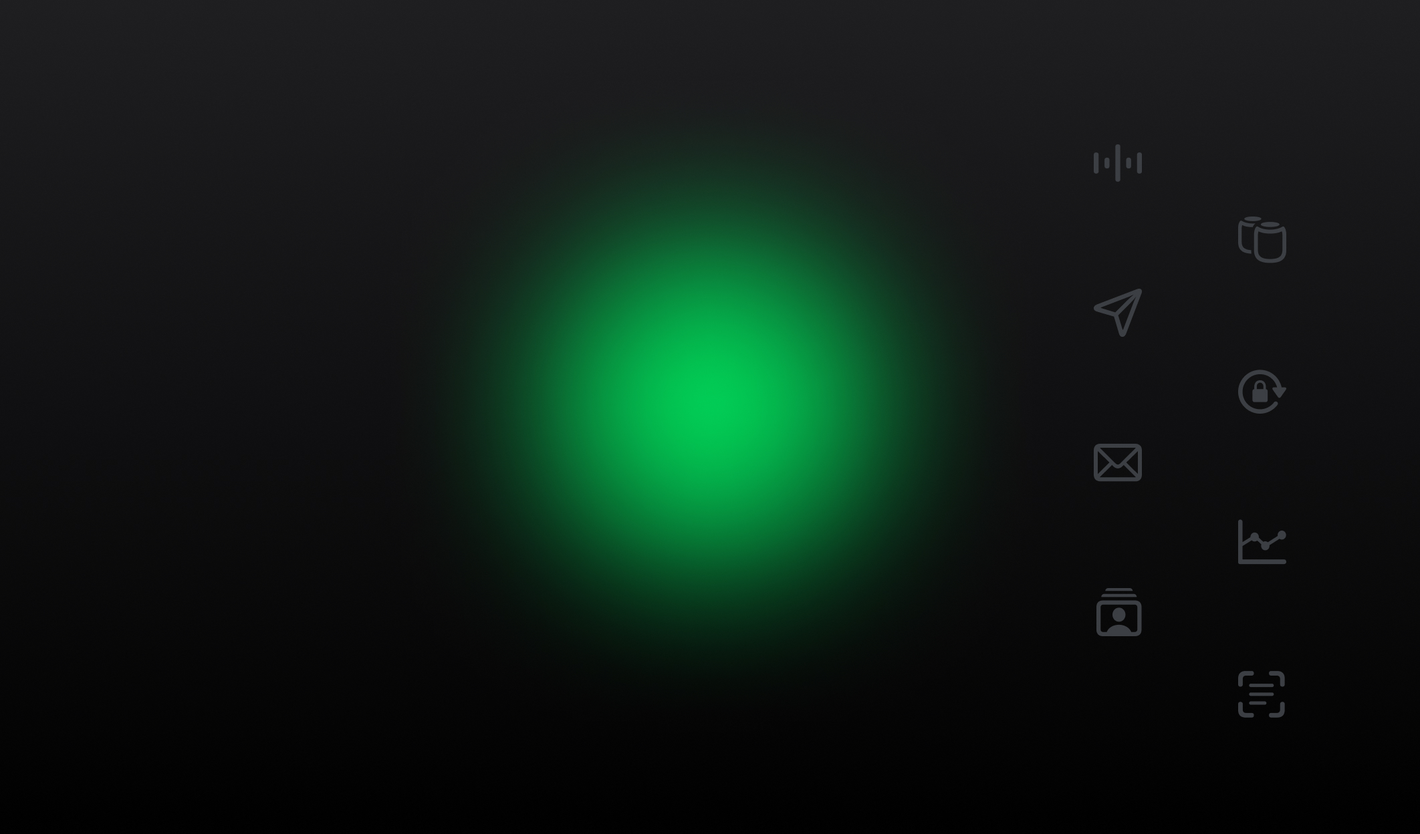
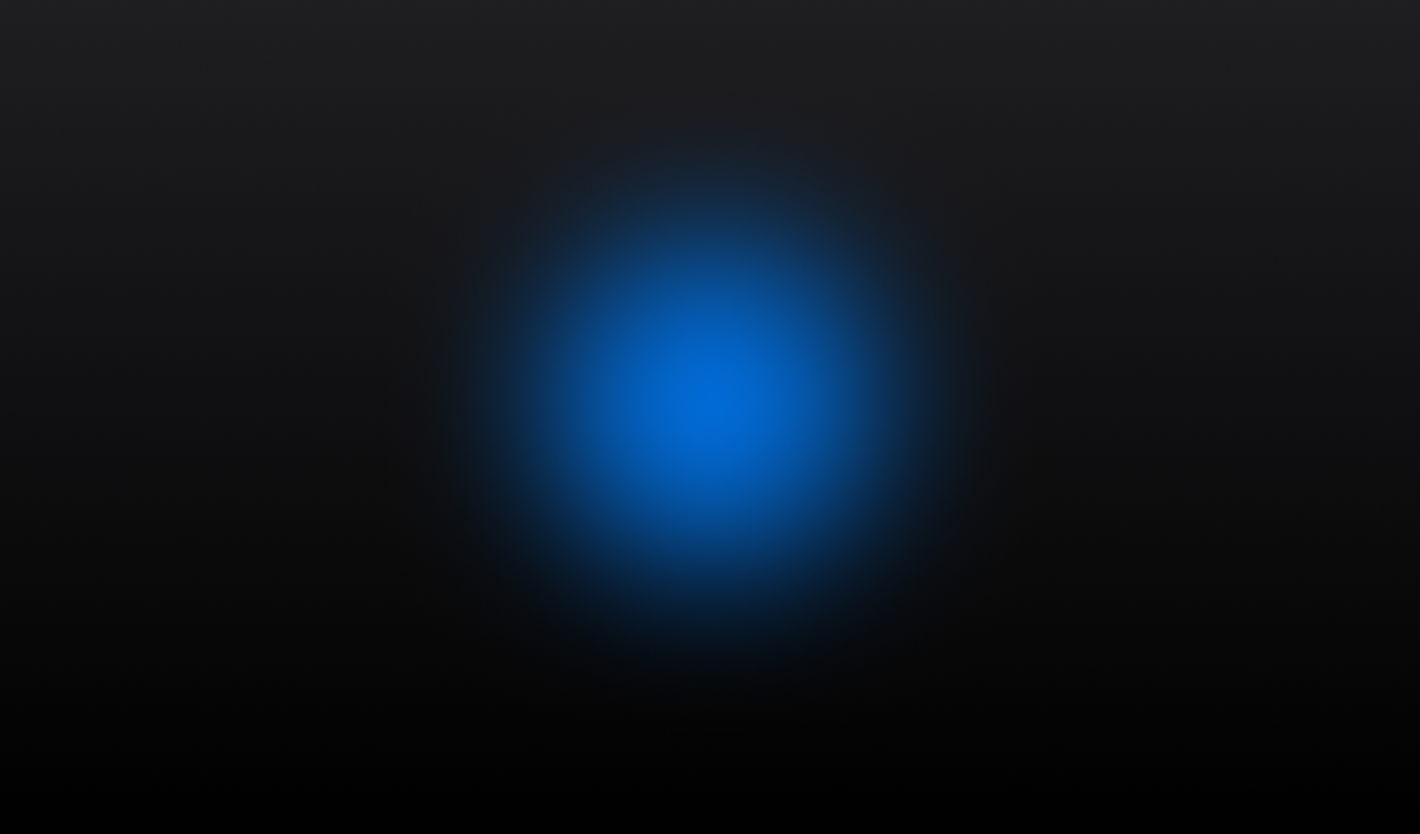
:lipstick: Change the app theme to use blue as primary color, and only allow light theme

diff --git a/src/lib/assets/icons/Logo.tsx b/src/lib/assets/icons/Logo.tsx
@@ -1,6 +1,6 @@
 import { useTheme } from 'styled-components';
 
-import { VectorProps } from '../../interfaces/theme.interfaces';
+import { VectorProps } from 'lib/interfaces/theme.interfaces';
 
 export default function Logo({
   height = 48,
@@ -15,52 +15,24 @@ export default function Logo({
 
   switch (variant) {
     case 'logo':
-      viewBox = '0 0 775 128';
+      viewBox = '0 0 682 88';
       children = (
         <>
-          <g filter="url(#filter0_f_913_2)">
-            <path
-              d="M90.4474 108H64.6314C56.0851 108 49.1339 101.472 49.1339 93.4514C49.1339 90.7399 49.9192 88.1483 51.3842 85.8955C48.5338 85.3048 45.9214 83.9617 43.8153 81.9784C37.7806 76.3101 37.7759 67.0789 43.8153 61.4073L56.7907 49.0972L35.4975 49.0928C26.9524 49.0928 20 42.5654 20 34.5442C20 26.523 26.9536 20 35.4987 20H61.3193C69.8657 20 76.8169 26.5241 76.8169 34.5453C76.8169 37.2601 76.0316 39.855 74.5619 42.1078C77.4123 42.7018 80.0258 44.0416 82.1355 46.0216C85.062 48.7683 86.6712 52.4203 86.6712 56.3099C86.6712 60.1907 85.062 63.8482 82.1319 66.5938L69.1554 78.9072H90.4474C98.9937 78.9072 105.95 85.4313 105.95 93.4525C105.95 101.472 98.9937 108 90.4474 108ZM61.4307 86.2398L59.2132 88.3419C57.7482 89.7169 56.9465 91.5286 56.9465 93.4547C56.9465 97.429 60.3911 100.666 64.6314 100.666H90.4474C94.6866 100.666 98.1358 97.4301 98.1358 93.4514C98.1358 89.4727 94.6877 86.2387 90.4474 86.2387L61.4307 86.2398ZM67.7795 49.0972L49.3554 66.5784C46.3492 69.4065 46.3492 73.9825 49.3472 76.7974C50.7888 78.1581 52.7121 78.9072 54.7654 78.9072H58.1678L76.5918 61.4216C78.0604 60.0466 78.8585 58.2349 78.8585 56.3088C78.8585 54.3827 78.0604 52.5677 76.6071 51.2026C75.162 49.8452 73.234 49.0972 71.1783 49.0972H67.7795ZM35.4987 27.3337C31.2642 27.3337 27.815 30.5699 27.815 34.5453C27.815 38.5273 31.263 41.7613 35.4987 41.7613L64.5178 41.7646L66.7387 39.6592C68.2073 38.2842 69.0054 36.4725 69.0054 34.5464C69.0054 30.5721 65.5562 27.3348 61.3205 27.3348L35.4987 27.3337Z"
-              fill={theme.palette.primary.main}
-              fillOpacity="0.2"
-            />
-          </g>
           <path
-            d="M90.4474 108H64.6314C56.0851 108 49.1339 101.471 49.1339 93.4514C49.1339 90.7399 49.9192 88.1483 51.3842 85.8955C48.5338 85.3048 45.9214 83.9617 43.8153 81.9784C37.7806 76.3101 37.7759 67.0789 43.8153 61.4073L56.7907 49.0972L35.4975 49.0928C26.9524 49.0928 20 42.5654 20 34.5442C20 26.523 26.9536 20 35.4987 20H61.3193C69.8657 20 76.8169 26.5241 76.8169 34.5453C76.8169 37.2601 76.0316 39.855 74.5619 42.1078C77.4122 42.7018 80.0258 44.0416 82.1355 46.0216C85.062 48.7683 86.6712 52.4203 86.6712 56.3099C86.6712 60.1907 85.062 63.8482 82.1319 66.5938L69.1554 78.9072H90.4474C98.9937 78.9072 105.95 85.4313 105.95 93.4525C105.95 101.471 98.9937 108 90.4474 108ZM61.4307 86.2398L59.2132 88.3419C57.7482 89.7169 56.9465 91.5286 56.9465 93.4547C56.9465 97.429 60.3911 100.666 64.6314 100.666H90.4474C94.6866 100.666 98.1358 97.4301 98.1358 93.4514C98.1358 89.4727 94.6877 86.2387 90.4474 86.2387L61.4307 86.2398ZM67.7795 49.0972L49.3554 66.5784C46.3492 69.4065 46.3492 73.9825 49.3472 76.7974C50.7888 78.1581 52.7121 78.9072 54.7654 78.9072H58.1678L76.5918 61.4216C78.0604 60.0466 78.8585 58.2349 78.8585 56.3088C78.8585 54.3827 78.0604 52.5677 76.6071 51.2026C75.162 49.8452 73.234 49.0972 71.1783 49.0972H67.7795ZM35.4987 27.3337C31.2642 27.3337 27.815 30.5699 27.815 34.5453C27.815 38.5273 31.263 41.7613 35.4987 41.7613L64.5178 41.7646L66.7387 39.6592C68.2072 38.2842 69.0054 36.4725 69.0054 34.5464C69.0054 30.5721 65.5562 27.3348 61.3205 27.3348L35.4987 27.3337Z"
+            d="M75.4474 88H49.6314C41.0851 88 34.1339 81.4715 34.1339 73.4514C34.1339 70.7399 34.9192 68.1483 36.3842 65.8955C33.5338 65.3048 30.9214 63.9617 28.8153 61.9784C22.7806 56.3101 22.7759 47.0789 28.8153 41.4073L41.7907 29.0972L20.4975 29.0928C11.9524 29.0928 5 22.5654 5 14.5442C5 6.523 11.9536 0 20.4987 0H46.3193C54.8657 0 61.8169 6.5241 61.8169 14.5453C61.8169 17.2601 61.0316 19.855 59.5619 22.1078C62.4122 22.7018 65.0258 24.0416 67.1355 26.0216C70.062 28.7683 71.6712 32.4203 71.6712 36.3099C71.6712 40.1907 70.062 43.8482 67.1319 46.5938L54.1554 58.9072H75.4474C83.9937 58.9072 90.9496 65.4313 90.9496 73.4525C90.9496 81.4715 83.9937 88 75.4474 88ZM46.4307 66.2398L44.2132 68.3419C42.7482 69.7169 41.9465 71.5286 41.9465 73.4547C41.9465 77.429 45.3911 80.6663 49.6314 80.6663H75.4474C79.6866 80.6663 83.1358 77.4301 83.1358 73.4514C83.1358 69.4727 79.6877 66.2387 75.4474 66.2387L46.4307 66.2398ZM52.7795 29.0972L34.3554 46.5784C31.3492 49.4065 31.3492 53.9825 34.3472 56.7974C35.7888 58.1581 37.7121 58.9072 39.7654 58.9072H43.1678L61.5918 41.4216C63.0604 40.0466 63.8585 38.2349 63.8585 36.3088C63.8585 34.3827 63.0604 32.5677 61.6071 31.2026C60.162 29.8452 58.234 29.0972 56.1783 29.0972H52.7795ZM20.4987 7.3337C16.2642 7.3337 12.815 10.5699 12.815 14.5453C12.815 18.5273 16.263 21.7613 20.4987 21.7613L49.5178 21.7646L51.7387 19.6592C53.2072 18.2842 54.0054 16.4725 54.0054 14.5464C54.0054 10.5721 50.5562 7.3348 46.3205 7.3348L20.4987 7.3337Z"
             fill="url(#paint0_linear_913_2)"
           />
           <path
-            d="M175.648 107.965C167.406 107.965 160.258 106.207 154.203 102.691C148.188 99.1758 143.539 94.1562 140.258 87.6328C137.016 81.0703 135.395 73.2578 135.395 64.1953V64.1367C135.395 55.0352 137.035 47.2422 140.316 40.7578C143.598 34.2344 148.246 29.2344 154.262 25.7578C160.277 22.2422 167.406 20.4844 175.648 20.4844C182.484 20.4844 188.578 21.8125 193.93 24.4688C199.281 27.125 203.578 30.7773 206.82 35.4258C210.062 40.0352 211.957 45.3477 212.504 51.3633L212.562 51.8906H195.336L195.102 50.8945C194.438 47.7695 193.246 45.0547 191.527 42.75C189.809 40.4453 187.602 38.668 184.906 37.418C182.25 36.1289 179.164 35.4844 175.648 35.4844C171.117 35.4844 167.191 36.6367 163.871 38.9414C160.551 41.2461 157.973 44.5469 156.137 48.8438C154.34 53.1016 153.441 58.1797 153.441 64.0781V64.1367C153.441 70.0742 154.34 75.2109 156.137 79.5469C157.973 83.8438 160.551 87.1641 163.871 89.5078C167.23 91.8125 171.156 92.9648 175.648 92.9648C179.047 92.9648 182.074 92.3398 184.73 91.0898C187.426 89.8398 189.672 88.043 191.469 85.6992C193.266 83.3164 194.535 80.4453 195.277 77.0859L195.395 76.5H212.621L212.562 77.1445C212.016 83.1211 210.102 88.4336 206.82 93.082C203.578 97.7305 199.281 101.383 193.93 104.039C188.578 106.656 182.484 107.965 175.648 107.965ZM222.523 106.5V21.9492H239.633V106.5H222.523ZM251.527 106.5V43.6875H268.637V106.5H251.527ZM260.082 35.6016C257.504 35.6016 255.336 34.7227 253.578 32.9648C251.82 31.207 250.941 29.1172 250.941 26.6953C250.941 24.2344 251.82 22.1445 253.578 20.4258C255.336 18.668 257.504 17.7891 260.082 17.7891C262.66 17.7891 264.828 18.668 266.586 20.4258C268.344 22.1445 269.223 24.2344 269.223 26.6953C269.223 29.1172 268.344 31.207 266.586 32.9648C264.828 34.7227 262.66 35.6016 260.082 35.6016ZM280.121 106.5V43.6875H297.23V54.2344H297.582C298.871 50.6406 301.059 47.7695 304.145 45.6211C307.27 43.4727 310.941 42.3984 315.16 42.3984C318.09 42.3984 320.727 42.9062 323.07 43.9219C325.414 44.9375 327.387 46.4023 328.988 48.3164C330.629 50.2305 331.781 52.5742 332.445 55.3477H332.797C333.734 52.6914 335.141 50.4062 337.016 48.4922C338.93 46.5391 341.176 45.0352 343.754 43.9805C346.371 42.9258 349.223 42.3984 352.309 42.3984C356.41 42.3984 360.004 43.2773 363.09 45.0352C366.176 46.793 368.578 49.2539 370.297 52.418C372.016 55.582 372.875 59.293 372.875 63.5508V106.5H355.766V67.8281C355.766 65.4062 355.355 63.3555 354.535 61.6758C353.754 59.9961 352.602 58.7266 351.078 57.8672C349.594 57.0078 347.738 56.5781 345.512 56.5781C343.363 56.5781 341.469 57.0664 339.828 58.043C338.227 59.0195 336.977 60.3867 336.078 62.1445C335.18 63.9023 334.73 65.9531 334.73 68.2969V106.5H318.266V67.3008C318.266 65.0352 317.855 63.1016 317.035 61.5C316.215 59.8984 315.043 58.6875 313.52 57.8672C312.035 57.0078 310.238 56.5781 308.129 56.5781C305.98 56.5781 304.086 57.0859 302.445 58.1016C300.805 59.1172 299.516 60.5234 298.578 62.3203C297.68 64.1172 297.23 66.207 297.23 68.5898V106.5H280.121ZM412.309 107.789C405.902 107.789 400.395 106.48 395.785 103.863C391.176 101.207 387.621 97.4375 385.121 92.5547C382.66 87.6719 381.43 81.8906 381.43 75.2109V75.1523C381.43 68.4727 382.66 62.6914 385.121 57.8086C387.621 52.8867 391.117 49.0977 395.609 46.4414C400.141 43.7461 405.473 42.3984 411.605 42.3984C417.738 42.3984 423.031 43.707 427.484 46.3242C431.977 48.9023 435.434 52.5547 437.855 57.2812C440.316 62.0078 441.547 67.5352 441.547 73.8633V79.1367H389.809V68.3555H433.461L425.316 78.4336V71.8711C425.316 68.1992 424.75 65.1328 423.617 62.6719C422.484 60.1719 420.902 58.2969 418.871 57.0469C416.879 55.7969 414.555 55.1719 411.898 55.1719C409.242 55.1719 406.879 55.8164 404.809 57.1055C402.777 58.3945 401.176 60.2891 400.004 62.7891C398.871 65.25 398.305 68.2773 398.305 71.8711V78.4922C398.305 81.9688 398.871 84.9375 400.004 87.3984C401.176 89.8594 402.836 91.7539 404.984 93.082C407.133 94.3711 409.691 95.0156 412.66 95.0156C415.004 95.0156 417.035 94.6445 418.754 93.9023C420.473 93.1602 421.879 92.2227 422.973 91.0898C424.066 89.957 424.809 88.8047 425.199 87.6328L425.316 87.2812H441.02L440.844 87.9258C440.375 90.2305 439.457 92.5547 438.09 94.8984C436.723 97.2422 434.867 99.3906 432.523 101.344C430.219 103.297 427.387 104.859 424.027 106.031C420.707 107.203 416.801 107.789 412.309 107.789ZM450.746 106.5V43.6875H467.855V106.5H450.746ZM459.301 35.6016C456.723 35.6016 454.555 34.7227 452.797 32.9648C451.039 31.207 450.16 29.1172 450.16 26.6953C450.16 24.2344 451.039 22.1445 452.797 20.4258C454.555 18.668 456.723 17.7891 459.301 17.7891C461.879 17.7891 464.047 18.668 465.805 20.4258C467.562 22.1445 468.441 24.2344 468.441 26.6953C468.441 29.1172 467.562 31.207 465.805 32.9648C464.047 34.7227 461.879 35.6016 459.301 35.6016ZM479.34 106.5V43.6875H496.449V54H496.801C498.441 50.4062 500.863 47.5742 504.066 45.5039C507.27 43.4336 511.234 42.3984 515.961 42.3984C522.875 42.3984 528.207 44.4883 531.957 48.668C535.746 52.8086 537.641 58.5703 537.641 65.9531V106.5H520.531V69.4688C520.531 65.3672 519.555 62.2031 517.602 59.9766C515.688 57.7109 512.816 56.5781 508.988 56.5781C506.449 56.5781 504.242 57.1641 502.367 58.3359C500.492 59.4688 499.027 61.0703 497.973 63.1406C496.957 65.2109 496.449 67.6328 496.449 70.4062V106.5H479.34ZM564.711 106.5L542.973 43.6875H561.254L574.379 91.3828H574.73L587.68 43.6875H605.551L583.988 106.5H564.711ZM637.895 107.789C631.488 107.789 625.98 106.48 621.371 103.863C616.762 101.207 613.207 97.4375 610.707 92.5547C608.246 87.6719 607.016 81.8906 607.016 75.2109V75.1523C607.016 68.4727 608.246 62.6914 610.707 57.8086C613.207 52.8867 616.703 49.0977 621.195 46.4414C625.727 43.7461 631.059 42.3984 637.191 42.3984C643.324 42.3984 648.617 43.707 653.07 46.3242C657.562 48.9023 661.02 52.5547 663.441 57.2812C665.902 62.0078 667.133 67.5352 667.133 73.8633V79.1367H615.395V68.3555H659.047L650.902 78.4336V71.8711C650.902 68.1992 650.336 65.1328 649.203 62.6719C648.07 60.1719 646.488 58.2969 644.457 57.0469C642.465 55.7969 640.141 55.1719 637.484 55.1719C634.828 55.1719 632.465 55.8164 630.395 57.1055C628.363 58.3945 626.762 60.2891 625.59 62.7891C624.457 65.25 623.891 68.2773 623.891 71.8711V78.4922C623.891 81.9688 624.457 84.9375 625.59 87.3984C626.762 89.8594 628.422 91.7539 630.57 93.082C632.719 94.3711 635.277 95.0156 638.246 95.0156C640.59 95.0156 642.621 94.6445 644.34 93.9023C646.059 93.1602 647.465 92.2227 648.559 91.0898C649.652 89.957 650.395 88.8047 650.785 87.6328L650.902 87.2812H666.605L666.43 87.9258C665.961 90.2305 665.043 92.5547 663.676 94.8984C662.309 97.2422 660.453 99.3906 658.109 101.344C655.805 103.297 652.973 104.859 649.613 106.031C646.293 107.203 642.387 107.789 637.895 107.789ZM701.82 107.789C696.039 107.789 691.117 106.949 687.055 105.27C682.992 103.59 679.809 101.266 677.504 98.2969C675.238 95.2891 673.871 91.8125 673.402 87.8672L673.344 87.3398H690.043L690.16 87.8672C690.707 90.3281 691.938 92.2422 693.852 93.6094C695.766 94.9766 698.422 95.6602 701.82 95.6602C704.008 95.6602 705.863 95.4062 707.387 94.8984C708.91 94.3516 710.082 93.5898 710.902 92.6133C711.762 91.6367 712.191 90.4648 712.191 89.0977V89.0391C712.191 87.3594 711.586 86.0117 710.375 84.9961C709.164 83.9805 707.016 83.1211 703.93 82.418L693.266 80.1914C689.203 79.332 685.805 78.1016 683.07 76.5C680.375 74.8594 678.344 72.8477 676.977 70.4648C675.609 68.043 674.926 65.2695 674.926 62.1445V62.0859C674.926 58.0625 676 54.5859 678.148 51.6562C680.297 48.7266 683.344 46.4609 687.289 44.8594C691.273 43.2188 695.922 42.3984 701.234 42.3984C706.781 42.3984 711.488 43.2969 715.355 45.0938C719.262 46.8516 722.25 49.2344 724.32 52.2422C726.43 55.25 727.543 58.5898 727.66 62.2617V62.8477H711.898L711.84 62.3789C711.566 60.1133 710.512 58.2383 708.676 56.7539C706.879 55.2305 704.398 54.4688 701.234 54.4688C699.281 54.4688 697.582 54.7422 696.137 55.2891C694.691 55.8359 693.578 56.6172 692.797 57.6328C692.016 58.6094 691.625 59.7812 691.625 61.1484V61.207C691.625 62.2617 691.879 63.2188 692.387 64.0781C692.934 64.8984 693.832 65.6211 695.082 66.2461C696.332 66.8711 698.012 67.418 700.121 67.8867L710.785 70.1719C717.387 71.5391 722.113 73.5898 724.965 76.3242C727.855 79.0586 729.301 82.7305 729.301 87.3398V87.3984C729.301 91.5 728.129 95.0742 725.785 98.1211C723.441 101.168 720.199 103.551 716.059 105.27C711.957 106.949 707.211 107.789 701.82 107.789ZM762.699 107.789C755.746 107.789 750.59 106.324 747.23 103.395C743.871 100.465 742.191 95.6406 742.191 88.9219V56.5781H733.461V43.6875H742.191V28.3359H759.477V43.6875H770.961V56.5781H759.477V87.0469C759.477 89.9766 760.121 92.0273 761.41 93.1992C762.738 94.332 764.691 94.8984 767.27 94.8984C768.051 94.8984 768.734 94.8789 769.32 94.8398C769.906 94.7617 770.453 94.6836 770.961 94.6055V107.145C770.023 107.301 768.852 107.438 767.445 107.555C766.078 107.711 764.496 107.789 762.699 107.789Z"
+            d="M133.664 40.2617V47.6758C133.664 51.6029 134.172 54.9375 135.187 57.6797C136.237 60.388 137.743 62.4531 139.707 63.875C141.671 65.263 144.057 65.957 146.867 65.957C149.406 65.957 151.573 65.4154 153.367 64.332C155.195 63.2487 156.583 61.7422 157.531 59.8125C158.513 57.8828 159.021 55.6992 159.055 53.2617H174.949C174.949 53.6003 174.949 53.9388 174.949 54.2773C174.949 54.6159 174.949 54.9544 174.949 55.293C174.949 60.168 173.73 64.4505 171.293 68.1406C168.889 71.7969 165.555 74.6576 161.289 76.7227C157.057 78.7539 152.199 79.7695 146.715 79.7695C140.282 79.7695 134.832 78.4661 130.363 75.8594C125.894 73.2188 122.492 69.4948 120.156 64.6875C117.82 59.8802 116.652 54.1758 116.652 47.5742V40.2617C116.652 33.6263 117.82 27.9049 120.156 23.0977C122.492 18.2565 125.894 14.5326 130.363 11.9258C134.832 9.28516 140.282 7.96484 146.715 7.96484C150.845 7.96484 154.62 8.55729 158.039 9.74219C161.492 10.8932 164.471 12.5859 166.977 14.8203C169.516 17.0208 171.479 19.6445 172.867 22.6914C174.255 25.7383 174.949 29.1406 174.949 32.8984C174.949 33.237 174.949 33.5755 174.949 33.9141C174.949 34.2188 174.949 34.5234 174.949 34.8281H159.055C159.021 32.3229 158.513 30.0885 157.531 28.125C156.583 26.1276 155.195 24.5703 153.367 23.4531C151.573 22.3021 149.406 21.7266 146.867 21.7266C144.057 21.7266 141.671 22.4375 139.707 23.8594C137.743 25.2812 136.237 27.3633 135.187 30.1055C134.172 32.8477 133.664 36.2331 133.664 40.2617ZM184.953 78.5V5.52734H201.152V78.5H184.953ZM214 78.5V24.2656H230.199V78.5H214ZM213.34 10.6055C213.34 8.20182 214.203 6.28906 215.93 4.86719C217.656 3.44531 219.721 2.73438 222.125 2.73438C224.529 2.73438 226.577 3.44531 228.269 4.86719C229.996 6.28906 230.859 8.20182 230.859 10.6055C230.859 13.0091 229.996 14.9388 228.269 16.3945C226.577 17.8503 224.529 18.5781 222.125 18.5781C219.721 18.5781 217.656 17.8503 215.93 16.3945C214.203 14.9388 213.34 13.0091 213.34 10.6055ZM242.641 78.5V24.2656H258.332V32.7461H259.144C259.585 31.3581 260.38 29.9531 261.531 28.5312C262.716 27.1094 264.307 25.9076 266.305 24.9258C268.302 23.944 270.756 23.4531 273.668 23.4531C276.41 23.4531 278.78 23.8763 280.777 24.7227C282.809 25.5352 284.467 26.6693 285.754 28.125C287.074 29.5469 288.005 31.2057 288.547 33.1016H289.207C289.749 31.5781 290.713 30.0885 292.102 28.6328C293.523 27.1432 295.368 25.9076 297.637 24.9258C299.905 23.944 302.562 23.4531 305.609 23.4531C311.161 23.4531 315.427 25.112 318.406 28.4297C321.419 31.7135 322.926 36.013 322.926 41.3281V78.5H306.777V46.2539C306.777 43.9518 306.422 42.1068 305.711 40.7188C305 39.2969 304.035 38.2643 302.816 37.6211C301.598 36.944 300.227 36.6055 298.703 36.6055C297.078 36.6055 295.639 36.9779 294.387 37.7227C293.168 38.4674 292.22 39.5846 291.543 41.0742C290.866 42.5299 290.527 44.375 290.527 46.6094V78.5H275.039V46.5586C275.039 44.0195 274.667 42.0391 273.922 40.6172C273.177 39.1953 272.178 38.1797 270.926 37.5703C269.707 36.9271 268.37 36.6055 266.914 36.6055C265.458 36.6055 264.104 36.944 262.852 37.6211C261.633 38.2643 260.651 39.3138 259.906 40.7695C259.161 42.2253 258.789 44.138 258.789 46.5078V78.5H242.641ZM358.016 79.5156C352.937 79.5156 348.469 78.5339 344.609 76.5703C340.75 74.5729 337.737 71.6445 335.57 67.7852C333.404 63.8919 332.32 59.0677 332.32 53.3125V48.9961C332.32 43.3763 333.421 38.6706 335.621 34.8789C337.822 31.0534 340.801 28.1758 344.559 26.2461C348.35 24.2826 352.633 23.3008 357.406 23.3008C362.45 23.3008 366.818 24.3503 370.508 26.4492C374.232 28.5482 377.109 31.5443 379.141 35.4375C381.206 39.2969 382.238 43.901 382.238 49.25V54.6836H348.113V56.5117C348.113 59.9648 349.061 62.6732 350.957 64.6367C352.887 66.6003 355.24 67.582 358.016 67.582C359.641 67.582 361.096 67.3281 362.383 66.8203C363.669 66.3125 364.736 65.5846 365.582 64.6367C366.428 63.6888 366.953 62.5378 367.156 61.1836H381.883C381.68 63.3164 381.07 65.4661 380.055 67.6328C379.039 69.7656 377.566 71.7292 375.637 73.5234C373.741 75.3177 371.32 76.7734 368.375 77.8906C365.463 78.974 362.01 79.5156 358.016 79.5156ZM348.113 45.3398H366.75C366.75 45.3398 366.75 45.3229 366.75 45.2891C366.75 43.2917 366.361 41.5143 365.582 39.957C364.837 38.3659 363.771 37.1133 362.383 36.1992C360.995 35.2852 359.37 34.8281 357.508 34.8281C355.646 34.8281 354.004 35.2852 352.582 36.1992C351.194 37.1133 350.094 38.3659 349.281 39.957C348.503 41.5143 348.113 43.2917 348.113 45.2891C348.113 45.3229 348.113 45.3398 348.113 45.3398ZM392.344 78.5V24.2656H408.543V78.5H392.344ZM391.684 10.6055C391.684 8.20182 392.547 6.28906 394.273 4.86719C396 3.44531 398.065 2.73438 400.469 2.73438C402.872 2.73438 404.921 3.44531 406.613 4.86719C408.34 6.28906 409.203 8.20182 409.203 10.6055C409.203 13.0091 408.34 14.9388 406.613 16.3945C404.921 17.8503 402.872 18.5781 400.469 18.5781C398.065 18.5781 396 17.8503 394.273 16.3945C392.547 14.9388 391.684 13.0091 391.684 10.6055ZM420.984 78.5V24.2656H436.676V32.6445H437.387C437.928 31.3581 438.842 30.0039 440.129 28.582C441.415 27.1602 443.125 25.9583 445.258 24.9766C447.424 23.9609 450.031 23.4531 453.078 23.4531C458.562 23.4531 462.98 25.1458 466.332 28.5312C469.684 31.8828 471.359 36.8763 471.359 43.5117V78.5H455.211V47.3203C455.211 44.6797 454.771 42.6146 453.891 41.125C453.01 39.6016 451.876 38.5352 450.488 37.9258C449.134 37.2826 447.712 36.9609 446.223 36.9609C444.394 36.9609 442.786 37.3841 441.398 38.2305C440.044 39.0768 438.995 40.2956 438.25 41.8867C437.505 43.444 437.133 45.306 437.133 47.4727V78.5H420.984ZM493.652 78.5L476.437 24.2656H493.754L502.945 63.5195H503.555L514.016 24.2656H530.773L512.34 78.5H493.652ZM559.109 79.5156C554.031 79.5156 549.562 78.5339 545.703 76.5703C541.844 74.5729 538.831 71.6445 536.664 67.7852C534.497 63.8919 533.414 59.0677 533.414 53.3125V48.9961C533.414 43.3763 534.514 38.6706 536.715 34.8789C538.915 31.0534 541.894 28.1758 545.652 26.2461C549.444 24.2826 553.727 23.3008 558.5 23.3008C563.544 23.3008 567.911 24.3503 571.602 26.4492C575.325 28.5482 578.203 31.5443 580.234 35.4375C582.299 39.2969 583.332 43.901 583.332 49.25V54.6836H549.207V56.5117C549.207 59.9648 550.155 62.6732 552.051 64.6367C553.98 66.6003 556.333 67.582 559.109 67.582C560.734 67.582 562.19 67.3281 563.477 66.8203C564.763 66.3125 565.829 65.5846 566.676 64.6367C567.522 63.6888 568.047 62.5378 568.25 61.1836H582.977C582.773 63.3164 582.164 65.4661 581.148 67.6328C580.133 69.7656 578.66 71.7292 576.73 73.5234C574.835 75.3177 572.414 76.7734 569.469 77.8906C566.557 78.974 563.104 79.5156 559.109 79.5156ZM549.207 45.3398H567.844C567.844 45.3398 567.844 45.3229 567.844 45.2891C567.844 43.2917 567.454 41.5143 566.676 39.957C565.931 38.3659 564.865 37.1133 563.477 36.1992C562.088 35.2852 560.463 34.8281 558.602 34.8281C556.74 34.8281 555.098 35.2852 553.676 36.1992C552.288 37.1133 551.187 38.3659 550.375 39.957C549.596 41.5143 549.207 43.2917 549.207 45.2891C549.207 45.3229 549.207 45.3398 549.207 45.3398ZM591.305 40.7188C591.305 36.5885 592.354 33.237 594.453 30.6641C596.586 28.0911 599.379 26.2292 602.832 25.0781C606.319 23.8932 610.06 23.3008 614.055 23.3008C618.388 23.3008 622.163 23.944 625.379 25.2305C628.629 26.5169 631.151 28.4128 632.945 30.918C634.773 33.3893 635.687 36.4193 635.687 40.0078H621.57C621.435 38.9922 621.096 38.0273 620.555 37.1133C620.047 36.1654 619.234 35.4036 618.117 34.8281C617.034 34.2188 615.595 33.9141 613.801 33.9141C611.532 33.9141 609.772 34.4219 608.519 35.4375C607.267 36.4193 606.641 37.6888 606.641 39.2461C606.641 40.4987 607.081 41.4974 607.961 42.2422C608.875 42.987 610.043 43.5964 611.465 44.0703C612.921 44.5104 614.478 44.8659 616.137 45.1367C617.829 45.4076 619.454 45.6784 621.012 45.9492C624.296 46.5247 627.173 47.4049 629.644 48.5898C632.116 49.7409 634.029 51.349 635.383 53.4141C636.771 55.4453 637.465 58.069 637.465 61.2852C637.465 65.043 636.517 68.293 634.621 71.0352C632.759 73.7773 630.034 75.8763 626.445 77.332C622.857 78.7878 618.506 79.5156 613.394 79.5156C608.35 79.5156 604.102 78.8047 600.648 77.3828C597.195 75.9271 594.588 73.9635 592.828 71.4922C591.068 68.987 590.187 66.1263 590.187 62.9102H605.828C605.963 64.0612 606.37 65.0768 607.047 65.957C607.758 66.8372 608.723 67.5312 609.941 68.0391C611.16 68.5469 612.582 68.8008 614.207 68.8008C615.934 68.8008 617.355 68.5469 618.473 68.0391C619.59 67.5312 620.419 66.8711 620.961 66.0586C621.536 65.2461 621.824 64.349 621.824 63.3672C621.824 61.8099 621.164 60.6589 619.844 59.9141C618.523 59.1354 616.848 58.543 614.816 58.1367C612.785 57.6966 610.686 57.2565 608.519 56.8164C605.337 56.1732 602.443 55.2422 599.836 54.0234C597.229 52.8047 595.147 51.1289 593.59 48.9961C592.066 46.8633 591.305 44.1042 591.305 40.7188ZM650.82 24.2656V11.6719H666.461V24.2656H676.82V36.5547H666.461V60.2188C666.461 62.6224 667.053 64.2982 668.238 65.2461C669.423 66.1602 671.268 66.6172 673.773 66.6172C674.417 66.6172 675.043 66.6172 675.652 66.6172C676.262 66.5833 676.702 66.5495 676.973 66.5156V78.2461C676.363 78.3138 675.415 78.3984 674.129 78.5C672.876 78.6354 671.454 78.7031 669.863 78.7031C665.225 78.7031 661.484 78.1953 658.641 77.1797C655.797 76.1302 653.715 74.4544 652.394 72.1523C651.074 69.8503 650.414 66.8203 650.414 63.0625V36.5547H642.543V24.2656H650.82Z"
             fill={theme.palette.text.level1}
           />
           <defs>
-            <filter
-              id="filter0_f_913_2"
-              x="0"
-              y="0"
-              width="125.95"
-              height="128"
-              filterUnits="userSpaceOnUse"
-              colorInterpolationFilters="sRGB"
-            >
-              <feFlood floodOpacity="0" result="BackgroundImageFix" />
-              <feBlend
-                mode="normal"
-                in="SourceGraphic"
-                in2="BackgroundImageFix"
-                result="shape"
-              />
-              <feGaussianBlur
-                stdDeviation="10"
-                result="effect1_foregroundBlur_913_2"
-              />
-            </filter>
             <linearGradient
               id="paint0_linear_913_2"
-              x1="62.9748"
-              y1="20"
-              x2="62.9748"
-              y2="108"
+              x1="47.9748"
+              y1="0"
+              x2="47.9748"
+              y2="88"
               gradientUnits="userSpaceOnUse"
             >
               <stop stopColor={theme.palette.primary.main} />
@@ -72,48 +44,20 @@ export default function Logo({
       break;
 
     case 'isotype':
-      viewBox = '0 0 138 140';
+      viewBox = '0 0 88 88';
       children = (
         <>
-          <g filter="url(#filter0_f_932_6)">
-            <path
-              d="M100.054 120H70.7175C61.0058 120 53.1067 112.581 53.1067 103.467C53.1067 100.386 53.999 97.4412 55.6638 94.8812C52.4248 94.21 49.4562 92.6838 47.0629 90.43C40.2052 83.9888 40.1999 73.4988 47.0629 67.0538L61.8076 53.065L37.6108 53.06C27.9004 53.06 20 45.6425 20 36.5275C20 27.4125 27.9018 20 37.6122 20H66.9538C76.6655 20 84.5646 27.4137 84.5646 36.5287C84.5646 39.6137 83.6723 42.5625 82.0022 45.1225C85.2412 45.7975 88.2112 47.32 90.6085 49.57C93.9341 52.6912 95.7627 56.8412 95.7627 61.2612C95.7627 65.6712 93.9341 69.8275 90.6045 72.9475L75.8584 86.94H100.054C109.766 86.94 117.67 94.3538 117.67 103.469C117.67 112.581 109.766 120 100.054 120ZM67.0803 95.2725L64.5605 97.6612C62.8957 99.2237 61.9847 101.283 61.9847 103.471C61.9847 107.988 65.899 111.666 70.7175 111.666H100.054C104.871 111.666 108.791 107.989 108.791 103.467C108.791 98.9463 104.872 95.2713 100.054 95.2713L67.0803 95.2725ZM74.2948 53.065L53.3584 72.93C49.9423 76.1438 49.9423 81.3438 53.3491 84.5425C54.9873 86.0887 57.1728 86.94 59.5062 86.94H63.3725L84.3089 67.07C85.9777 65.5075 86.8847 63.4487 86.8847 61.26C86.8847 59.0713 85.9777 57.0088 84.3262 55.4575C82.6841 53.915 80.4932 53.065 78.1572 53.065H74.2948ZM37.6122 28.3337C32.8003 28.3337 28.8807 32.0112 28.8807 36.5287C28.8807 41.0537 32.7989 44.7288 37.6122 44.7288L70.5884 44.7325L73.1122 42.34C74.781 40.7775 75.6879 38.7188 75.6879 36.53C75.6879 32.0138 71.7684 28.335 66.9551 28.335L37.6122 28.3337Z"
-              fill={theme.palette.primary.main}
-              fillOpacity="0.3"
-            />
-          </g>
           <path
-            d="M100.054 120H70.7175C61.0058 120 53.1067 112.581 53.1067 103.467C53.1067 100.386 53.999 97.4412 55.6638 94.8812C52.4248 94.21 49.4562 92.6838 47.0629 90.43C40.2052 83.9888 40.1999 73.4988 47.0629 67.0538L61.8076 53.065L37.6108 53.06C27.9004 53.06 20 45.6425 20 36.5275C20 27.4125 27.9018 20 37.6122 20H66.9538C76.6655 20 84.5646 27.4137 84.5646 36.5287C84.5646 39.6137 83.6723 42.5625 82.0022 45.1225C85.2412 45.7975 88.2112 47.32 90.6085 49.57C93.9341 52.6912 95.7627 56.8412 95.7627 61.2612C95.7627 65.6712 93.9341 69.8275 90.6045 72.9475L75.8584 86.94H100.054C109.766 86.94 117.67 94.3538 117.67 103.469C117.67 112.581 109.766 120 100.054 120ZM67.0803 95.2725L64.5605 97.6612C62.8957 99.2237 61.9847 101.283 61.9847 103.471C61.9847 107.988 65.899 111.666 70.7175 111.666H100.054C104.871 111.666 108.791 107.989 108.791 103.467C108.791 98.9462 104.872 95.2713 100.054 95.2713L67.0803 95.2725ZM74.2948 53.065L53.3584 72.93C49.9423 76.1438 49.9423 81.3437 53.3491 84.5425C54.9873 86.0887 57.1728 86.94 59.5062 86.94H63.3725L84.3089 67.07C85.9777 65.5075 86.8847 63.4487 86.8847 61.26C86.8847 59.0712 85.9777 57.0088 84.3262 55.4575C82.6841 53.915 80.4932 53.065 78.1572 53.065H74.2948ZM37.6122 28.3337C32.8002 28.3337 28.8807 32.0112 28.8807 36.5287C28.8807 41.0537 32.7989 44.7288 37.6122 44.7288L70.5884 44.7325L73.1122 42.34C74.781 40.7775 75.6879 38.7188 75.6879 36.53C75.6879 32.0138 71.7684 28.335 66.9551 28.335L37.6122 28.3337Z"
-            fill="url(#paint0_linear_932_6)"
+            d="M71.4474 88H45.6314C37.0851 88 30.1339 81.4715 30.1339 73.4514C30.1339 70.7399 30.9192 68.1483 32.3842 65.8955C29.5338 65.3048 26.9214 63.9617 24.8153 61.9784C18.7806 56.3101 18.7759 47.0789 24.8153 41.4073L37.7907 29.0972L16.4975 29.0928C7.95238 29.0928 1 22.5654 1 14.5442C1 6.523 7.95355 0 16.4987 0H42.3193C50.8657 0 57.8169 6.5241 57.8169 14.5453C57.8169 17.2601 57.0316 19.855 55.5619 22.1078C58.4122 22.7018 61.0258 24.0416 63.1355 26.0216C66.062 28.7683 67.6712 32.4203 67.6712 36.3099C67.6712 40.1907 66.062 43.8482 63.1319 46.5938L50.1554 58.9072H71.4474C79.9937 58.9072 86.9496 65.4313 86.9496 73.4525C86.9496 81.4715 79.9937 88 71.4474 88ZM42.4307 66.2398L40.2132 68.3419C38.7482 69.7169 37.9465 71.5286 37.9465 73.4547C37.9465 77.429 41.3911 80.6663 45.6314 80.6663H71.4474C75.6866 80.6663 79.1358 77.4301 79.1358 73.4514C79.1358 69.4727 75.6877 66.2387 71.4474 66.2387L42.4307 66.2398ZM48.7795 29.0972L30.3554 46.5784C27.3492 49.4065 27.3492 53.9825 30.3472 56.7974C31.7888 58.1581 33.7121 58.9072 35.7654 58.9072H39.1678L57.5918 41.4216C59.0604 40.0466 59.8585 38.2349 59.8585 36.3088C59.8585 34.3827 59.0604 32.5677 57.6071 31.2026C56.162 29.8452 54.234 29.0972 52.1783 29.0972H48.7795ZM16.4987 7.3337C12.2642 7.3337 8.81499 10.5699 8.81499 14.5453C8.81499 18.5273 12.263 21.7613 16.4987 21.7613L45.5178 21.7646L47.7387 19.6592C49.2072 18.2842 50.0054 16.4725 50.0054 14.5464C50.0054 10.5721 46.5562 7.3348 42.3205 7.3348L16.4987 7.3337Z"
+            fill="url(#paint0_linear_1366_67)"
           />
           <defs>
-            <filter
-              id="filter0_f_932_6"
-              x="0"
-              y="0"
-              width="137.67"
-              height="140"
-              filterUnits="userSpaceOnUse"
-              colorInterpolationFilters="sRGB"
-            >
-              <feFlood floodOpacity="0" result="BackgroundImageFix" />
-              <feBlend
-                mode="normal"
-                in="SourceGraphic"
-                in2="BackgroundImageFix"
-                result="shape"
-              />
-              <feGaussianBlur
-                stdDeviation="10"
-                result="effect1_foregroundBlur_932_6"
-              />
-            </filter>
             <linearGradient
-              id="paint0_linear_932_6"
-              x1="68.835"
-              y1="20"
-              x2="68.835"
-              y2="120"
+              id="paint0_linear_1366_67"
+              x1="43.9748"
+              y1="0"
+              x2="43.9748"
+              y2="88"
               gradientUnits="userSpaceOnUse"
             >
               <stop stopColor={theme.palette.primary.main} />

diff --git a/src/lib/theme/palette.theme.ts b/src/lib/theme/palette.theme.ts
@@ -3,15 +3,15 @@ import { ThemePalette } from '../interfaces/theme.interfaces';
 
 export const lightThemePalette: ThemePalette = {
   primary: {
-    light: themeColors.green.light,
-    main: themeColors.green.main,
-    dark: themeColors.green.dark,
-    contrastText: themeColors.white.main,
-  },
-  secondary: {
     light: themeColors.blue.light,
     main: themeColors.blue.main,
     dark: themeColors.blue.dark,
+    contrastText: themeColors.white.main,
+  },
+  secondary: {
+    light: themeColors.gray.light,
+    main: themeColors.gray.main,
+    dark: themeColors.gray.dark,
     contrastText: themeColors.white.main,
   },
   error: {
@@ -46,7 +46,7 @@ export const lightThemePalette: ThemePalette = {
     level5: themeColors.gray.main,
   },
   text: {
-    level1: themeColors.gray.darker,
+    level1: themeColors.black.main,
     level2: themeColors.gray.dark,
     level3: themeColors.gray.main,
     level4: themeColors.gray.light,
@@ -56,15 +56,15 @@ export const lightThemePalette: ThemePalette = {
 
 export const darkThemePalette: ThemePalette = {
   primary: {
-    light: themeColors.green.light,
-    main: themeColors.green.main,
-    dark: themeColors.green.dark,
+    light: themeColors.blue.light,
+    main: themeColors.blue.main,
+    dark: themeColors.blue.dark,
     contrastText: themeColors.white.main,
   },
   secondary: {
-    light: themeColors.cyan.light,
-    main: themeColors.cyan.main,
-    dark: themeColors.cyan.dark,
+    light: themeColors.gray.light,
+    main: themeColors.gray.main,
+    dark: themeColors.gray.dark,
     contrastText: themeColors.white.main,
   },
   error: {
@@ -99,7 +99,7 @@ export const darkThemePalette: ThemePalette = {
     level5: themeColors.gray.light,
   },
   text: {
-    level1: themeColors.gray.lighter,
+    level1: themeColors.white.main,
     level2: themeColors.gray.light,
     level3: themeColors.gray.main,
     level4: themeColors.gray.dark,

diff --git a/src/modules/home/sections/FeaturesSection/Features.tsx b/src/modules/home/sections/FeaturesSection/Features.tsx
@@ -6,8 +6,8 @@ import Typography from 'components/Typography/Typography';
 
 import RiskAssessmentTrialDarkMode from 'lib/assets/images/features/risk-assessment-trial-dark-mode.jpg';
 import RiskAssessmentTrialLightMode from 'lib/assets/images/features/risk-assessment-trial-light-mode.jpg';
-import MobileRiskAssessmentTrialImgDarkMode from 'lib/assets/images/features/mobile/risk-assessment-trial-mobile-dark-mode.jpg';
-import MobileRiskAssessmentTrialImgLightMode from 'lib/assets/images/features/mobile/risk-assessment-trial-mobile-light-mode.jpg';
+import OnPhoneRiskAssessmentTrialImgDarkMode from 'lib/assets/images/features/mobile/on-mobile-risk-assessment-trial-dark-mode.jpg';
+import OnPhoneRiskAssessmentTrialImgLightMode from 'lib/assets/images/features/mobile/on-mobile-risk-assessment-trial-light-mode.jpg';
 
 import RiskAssessmentResultDarkMode from 'lib/assets/images/features/risk-assessment-result-dark-mode.jpg';
 import RiskAssessmentResultLightMode from 'lib/assets/images/features/risk-assessment-result-light-mode.jpg';
@@ -66,8 +66,8 @@ export default function Features() {
             <FeaturesImg
               src={
                 theme.mode === 'dark'
-                  ? MobileRiskAssessmentTrialImgDarkMode
-                  : MobileRiskAssessmentTrialImgLightMode
+                  ? OnPhoneRiskAssessmentTrialImgDarkMode
+                  : OnPhoneRiskAssessmentTrialImgLightMode
               }
             />
           ) : (

diff --git a/src/components/Navigator/components/NavigationTopbar.tsx b/src/components/Navigator/components/NavigationTopbar.tsx
@@ -6,7 +6,7 @@ import { useAuthProfile } from 'modules/auth/lib/hooks/useAuthProfile';
 import Grid from 'components/Grid/Grid';
 import Avatar from 'components/Avatar/Avatar';
 import Button from 'components/Button/Button';
-import ThemeSwitch from 'components/ThemeSwitch/ThemeSwitch';
+// import ThemeSwitch from 'components/ThemeSwitch/ThemeSwitch';
 import Navlink from 'components/Navlink/Navlink';
 import { useDevice } from 'contexts/DeviceContext/DeviceContext.hooks';
 import { useLayout } from 'contexts/LayoutContext/LayoutContext.hooks';
@@ -49,13 +49,13 @@ export default function NavigationTopbar({
       </Button>
 
       <NavigationTopbarLogoNavlink to={ROUTE_PATHS.home}>
-        <Logo variant={device.isPhone ? 'isotype' : 'logo'} height={32} />
+        <Logo variant={device.isPhone ? 'isotype' : 'logo'} height={24} />
       </NavigationTopbarLogoNavlink>
 
       <Grid direction="row" align="center" justify="flex-end">
-        {!device.isPhone && (
+        {/* {!device.isPhone && (
           <ThemeSwitch style={{ marginRight: theme.spacing.sm }} />
-        )}
+        )} */}
 
         {isAuth ? (
           <Avatar

diff --git a/src/modules/home/sections/MissionStatementSection/MissionStatementSection.tsx b/src/modules/home/sections/MissionStatementSection/MissionStatementSection.tsx
@@ -22,7 +22,7 @@ export default function MissionStatementSection() {
           position: 'relative',
         }}
       >
-        <ProjectDescriptionTitle variant="title4">
+        <ProjectDescriptionTitle variant="title3">
           We are building the financial infrastructure needed to power the next
           generation of nature investments.
         </ProjectDescriptionTitle>

diff --git a/src/contexts/ThemeContext/ThemeContext.tsx b/src/contexts/ThemeContext/ThemeContext.tsx
@@ -15,7 +15,7 @@ const GlobalStyle = createGlobalStyle`
 `;
 
 export function ThemeProvider({ children }: WithChildren) {
-  const [mode, setMode] = useLocalStorage<ThemeMode>('theme', 'dark');
+  const [mode, setMode] = useLocalStorage<ThemeMode>('theme', 'light');
 
   const toggleMode = () => {
     const updatedMode = mode === 'light' ? 'dark' : 'light';

diff --git a/README.md b/README.md
@@ -1,5 +1,5 @@
 <p align="center">
-  <a href="https://climeinvest.com/" target="blank"><img src="https://i.postimg.cc/W1G2SGqz/Isotype-rounded.png" width="200" alt="Climeinvest Logo" /></a>
+  <a href="https://climeinvest.com/" target="blank"><img src="https://i.postimg.cc/bNhFP74y/Isotype-squared.png" width="200" alt="Climeinvest Logo" /></a>
 </p>
 
 [circleci-image]: https://img.shields.io/circleci/build/github/nestjs/nest/master?token=abc123def456
